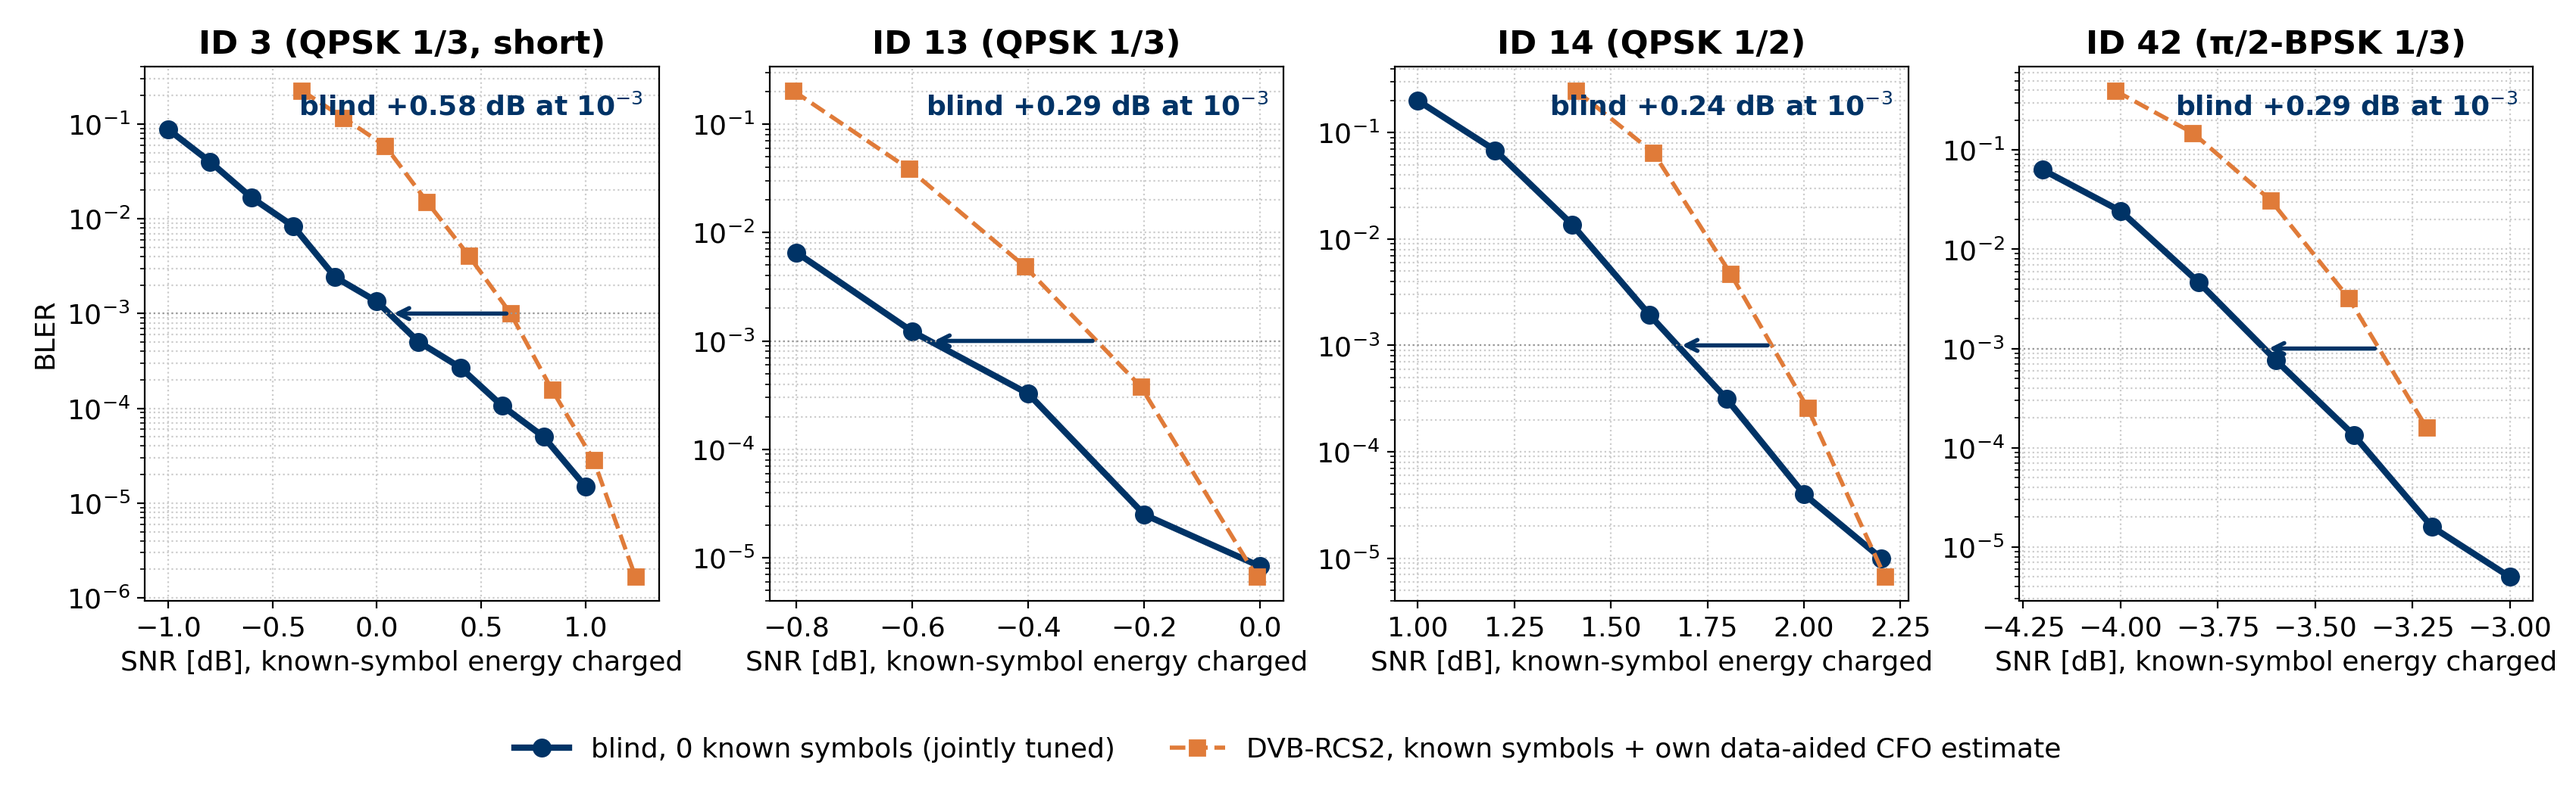
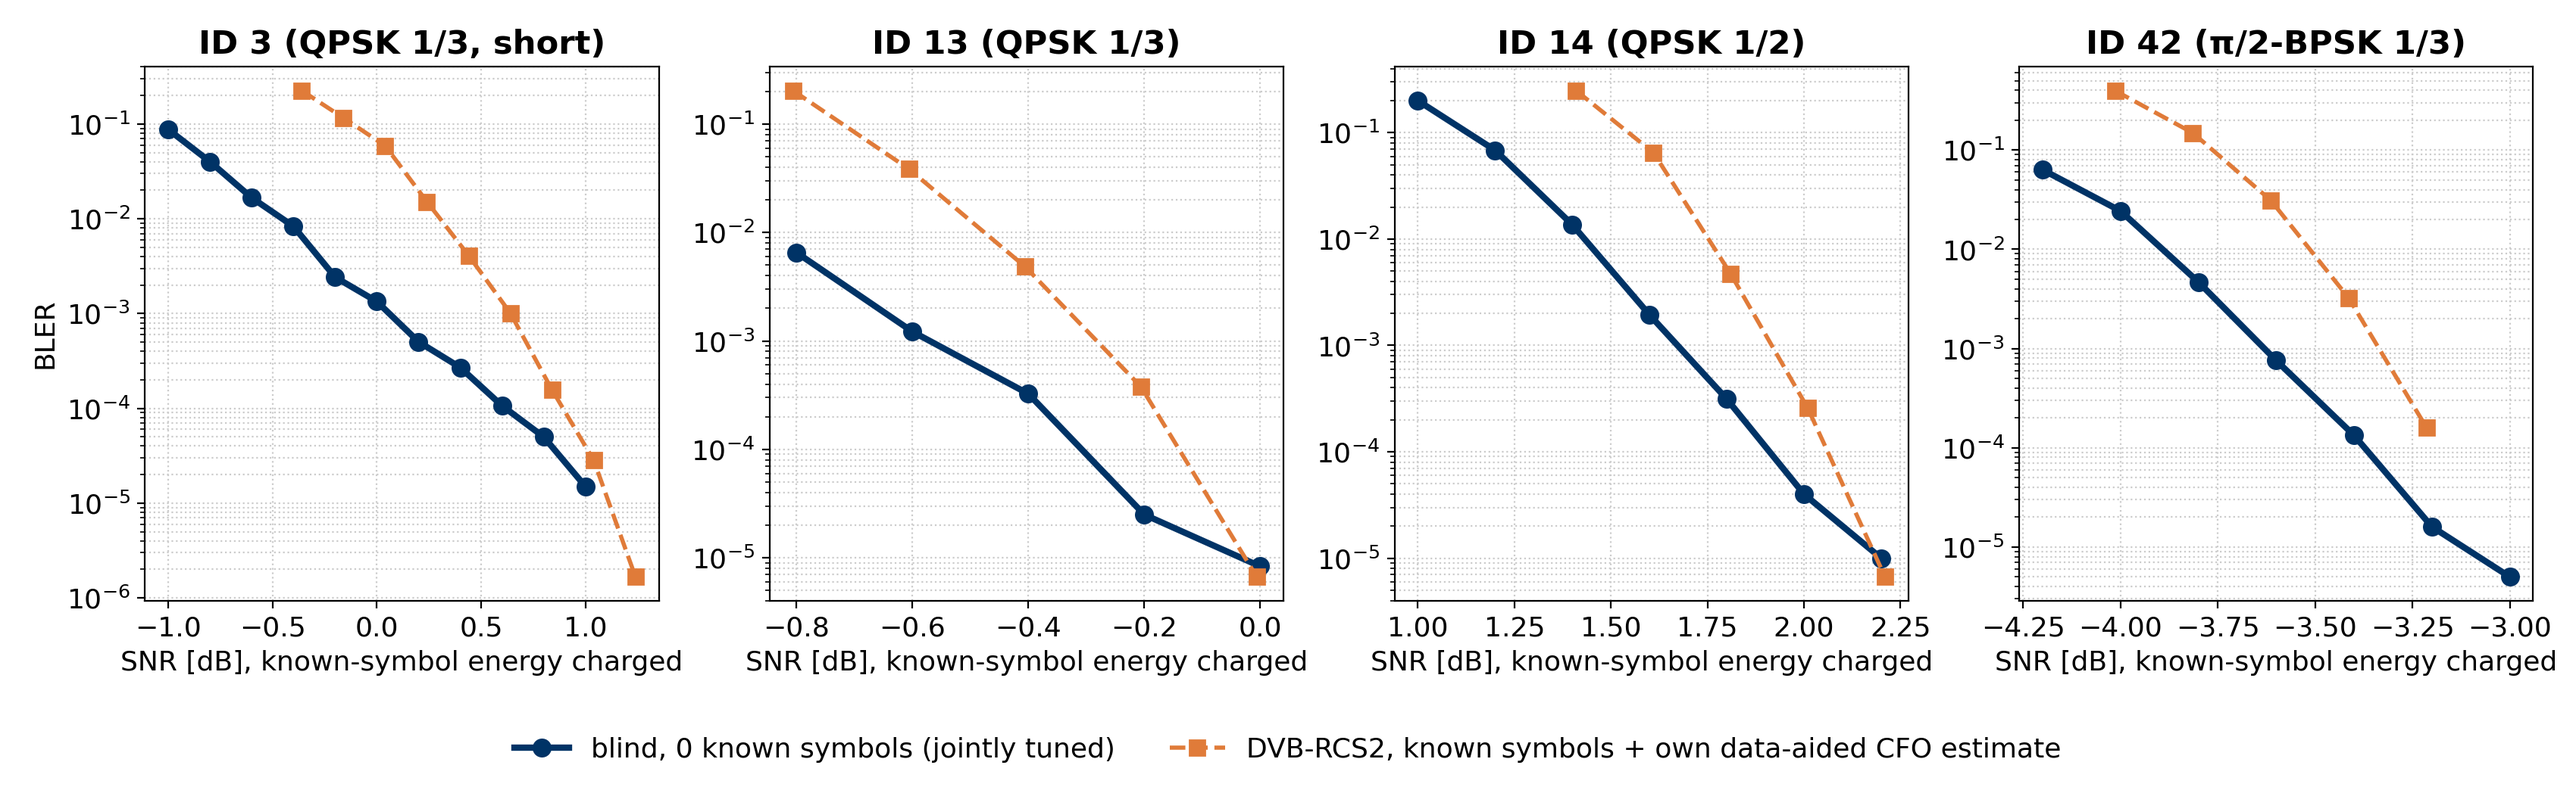
Slides: drop the BLER 1e-3 line, arrows, gap labels and 1e-3 markers from the plots; README 6.2 turbo vs polar code-only comparison

diff --git a/BLIND_IMPLEMENTATION/presentation/fullsys/plot_fullsys.py b/BLIND_IMPLEMENTATION/presentation/fullsys/plot_fullsys.py
@@ -82,12 +82,6 @@ for a, fmt in zip(ax, DVB):
     d, ce, cp, cm, te, tp, tm = dvb_series(fmt)
     hb, = a.semilogy(*nz(te, tp), "-o", color=NAVY, lw=3, ms=8)
     hc, = a.semilogy(*nz(ce, cp), "--s", color=ORANGE, lw=2, ms=7)
-    xb, xc = cross(te, tp), cross(ce, cp)
-    if xb is not None and xc is not None:
-        a.axhline(1e-3, color="#999999", lw=0.8, ls=":")
-        a.annotate("", xy=(xb, 1e-3), xytext=(xc, 1e-3), arrowprops=dict(arrowstyle="->", color=NAVY, lw=2))
-        a.text(0.97, 0.95, f"blind {xc - xb:+.2f} dB at 10$^{{-3}}$", transform=a.transAxes, ha="right", va="top", fontsize=13,
-               color=NAVY, fontweight="bold")
     a.set_title(f"{d['name']} ({d['desc'].replace('pi/2', 'π/2')})", fontweight="bold")
     style(a, XL, "BLER" if a is ax[0] else None)
 legend_below(f, [hb, hc], ["blind, 0 known symbols (jointly tuned)", "DVB-RCS2, known symbols + own data-aided CFO estimate"], 2)
@@ -101,13 +95,10 @@ for a, fmt in zip(ax, DVB):
     h0, = a.plot(bf["es"], bm_, "--o", color=LIGHT, lw=2, ms=6)
     hb, = a.plot(te, np.array(tm) / 1e6, "-o", color=NAVY, lw=3, ms=8)
     hc, = a.plot(ce, np.array(cm) / 1e6, "--s", color=ORANGE, lw=2, ms=7)
-    xb, xc = cross(te, tp), cross(ce, cp)
-    ho, = a.plot([xb, xc], [np.interp(xb, te, tm) / 1e6, np.interp(xc, ce, cm) / 1e6], "D", ms=13, mfc="none", mec="#c8423b", mew=2.5, ls="none")
     mticks(a, list(np.array(tm) / 1e6) + list(np.array(cm) / 1e6) + list(bm_))
     a.set_title(f"{d['name']} ({d['desc'].replace('pi/2', 'π/2')})", fontweight="bold")
     style(a, XL, "mean MACs per core [M] (32 cores)" if a is ax[0] else None)
-legend_below(f, [hb, h0, hc, ho], ["blind (jointly tuned)", "blind before joint tuning", "DVB-RCS2 (synchroniser + turbo decoder)",
-                                    "at BLER 10$^{-3}$"], 4)
+legend_below(f, [hb, h0, hc], ["blind (jointly tuned)", "blind before joint tuning", "DVB-RCS2 (synchroniser + turbo decoder)"], 3)
 f.tight_layout(rect=(0, 0.1, 1, 1)); f.savefig(os.path.join(HERE, "fs_dvb_macs.png"), dpi=200); plt.close(f)
 
 # 3) VDE-SAT: BLER and MACs vs Eb/N0
@@ -119,18 +110,14 @@ f, ax = plt.subplots(1, 2, figsize=(14, 5.4))
 hb, = ax[0].semilogy(*nz(fe, fp), "-o", color=NAVY, lw=3, ms=8)
 hc, = ax[0].semilogy(*nz(ce, cp), "--P", color=BROWN, lw=2, ms=8)
 xb, xc = cross(fe, fp), cross(ce, cp)
-ax[0].axhline(1e-3, color="#999999", lw=0.8, ls=":")
-ax[0].annotate("", xy=(xb, 1e-3), xytext=(xc, 1e-3), arrowprops=dict(arrowstyle="->", color=NAVY, lw=2.5))
-ax[0].text(0.97, 0.95, f"blind {xc - xb:+.2f} dB at 10$^{{-3}}$", transform=ax[0].transAxes, ha="right", va="top", fontsize=14, color=NAVY, fontweight="bold")
 ax[0].set_title("BLER", fontweight="bold"); style(ax[0], XL, "BLER")
 h0, = ax[1].plot(be, np.array(bm) / 1e6, "--o", color=LIGHT, lw=2, ms=6)
 ax[1].plot(fe, np.array(fm) / 1e6, "-o", color=NAVY, lw=3, ms=8)
 ax[1].plot(ce, np.array(cm) / 1e6, "--P", color=BROWN, lw=2, ms=8)
-ho, = ax[1].plot([xb, xc], [np.interp(xb, fe, fm) / 1e6, np.interp(xc, ce, cm) / 1e6], "D", ms=13, mfc="none", mec="#c8423b", mew=2.5, ls="none")
 mticks(ax[1], list(np.array(bm) / 1e6) + list(np.array(fm) / 1e6) + list(np.array(cm) / 1e6))
 ax[1].set_title("mean MACs per core [M] (32 cores)", fontweight="bold"); style(ax[1], XL)
-legend_below(f, [hb, h0, hc, ho], ["blind (jointly tuned)", "blind before joint tuning",
-                                   f"VDE-SAT ({V['known']} known: syncwords + pilots)", "at BLER 10$^{-3}$"], 4)
+legend_below(f, [hb, h0, hc], ["blind (jointly tuned)", "blind before joint tuning",
+                               f"VDE-SAT ({V['known']} known: syncwords + pilots)"], 3)
 f.tight_layout(rect=(0, 0.1, 1, 1)); f.savefig(os.path.join(HERE, "fs_vde.png"), dpi=200); plt.close(f)
 
 # 4) VDE-SAT, final blind with a MAC cap

diff --git a/BLIND_IMPLEMENTATION/presentation/fullsys/plot_genie.py b/BLIND_IMPLEMENTATION/presentation/fullsys/plot_genie.py
@@ -68,7 +68,6 @@ for a, (key, name, tu, po, col) in zip(ax, SYS):
                                ("real", "-s" if key != "vde" else "-P", col, 2.5, col), ("blind", "-o", NAVY, 3, NAVY)):
         x = [p["es"] for p in s[k] if p["err"] > 0]; y = [p["err"] / p["n"] for p in s[k] if p["err"] > 0]
         a.semilogy(x, y, sty, color=c, lw=lw, ms=7, mfc=mfc, mew=1.8)
-    a.axhline(1e-3, color="#999999", lw=0.8, ls=":")
     xt, xp, xr, xb = (cross(s[k]) for k in ("turbo_genie", "polar_genie", "real", "blind"))
     s["x1e-3"] = dict(turbo_genie=xt, polar_genie=xp, real=xr, blind=xb)
     a.text(0.5, 1.015, f"perfect sync: turbo ahead {xp - xt:.2f} dB\nreal systems: blind ahead {xr - xb:.2f} dB",

diff --git a/fullsys/README.md b/fullsys/README.md
@@ -499,6 +499,32 @@ generated by `py BLIND_IMPLEMENTATION/testing/plot_fs_tuned.py` then `py BLIND_I
 | ID 14 | [fs_tuned_id14s.png](../BLIND_IMPLEMENTATION/testing/results/plots/DVB-RCS2/overview/fs_tuned_id14s.png) |
 | VDE 32 | [fs_vde32_final.png](../BLIND_IMPLEMENTATION/testing/results/plots/VDE-SAT/overview/fs_vde32_final.png) |
 
+### 6.2 Code only: turbo vs polar with perfect sync (2026-11-18)
+
+How much of the result is the code itself? Both codes with perfect sync (true CFO, phase and N0, no known symbols),
+same payload and data symbols, BLER 1e-3 points in Es/N0 per data symbol (dB):
+
+| System | Turbo, perfect sync | Polar CA-SCL-8, perfect sync | Turbo ahead by | Real system (own DA sync, known symbols charged) | Blind (real) | Blind ahead by |
+|---|---|---|---|---|---|---|
+| ID 3 | -0.21 | -0.09 | 0.12 | +0.64 | +0.06 | 0.58 |
+| ID 13 | -0.77 | -0.42 | 0.36 | -0.28 | -0.57 | 0.29 |
+| ID 14 | 1.50 | 1.77 | 0.27 | 1.92 | 1.67 | 0.24 |
+| ID 42 | -3.78 | -3.41 | 0.37 | -3.34 | -3.63 | 0.29 |
+| VDE 32 | -4.78 | -4.63 | 0.15 | -3.63 | -4.80 | 1.17 |
+
+- With perfect sync the deployed turbo codes beat our rate-matched polar code (list 8) by 0.12-0.37 dB, so the code
+  choice works against blind. Blind still wins because the real systems spend 7-23 % of their energy on known symbols
+  (0.32-1.12 dB) and lose 0.03-0.14 dB to their own sync.
+- Blind beats its own perfect-sync list-8 curve on IDs 13, 14, 42 and VDE-SAT (by 0.09-0.22 dB at 1e-3): it decodes
+  several neighbouring (CFO, phase) hypotheses (DVB-RCS2: one joint list of 16 paths), which acts like a larger list.
+  Perfect-sync list 16 / 32 runs (ID 13: -0.56 / -0.66 dB; ID 14: 1.65 / 1.55; ID 42: list 16 -3.59, list 32 -3.69;
+  ID 3: -0.28 / -0.38) put the list-32 polar code within 0.05-0.12 dB of turbo (ID 3: 0.17 dB better).
+- Sources: turbo `rcs2_fs-{q3ti, rcs2v13, rcs2v14, q42ti}`, `vde_fs-{v32a, v32lo}`; polar
+  `polar_genie_fs-{q3pg8, pgga-13, pgga-14s, q42pg8}` (GA design) and `polar_genie_fs-pgv2a/b` (VDE, PW design, run
+  2026-11-18, jobs `fs-pgv2a/b`); real curves as in 6 and 6.1. Figure and snapshot:
+  [fs_genie.png](../BLIND_IMPLEMENTATION/presentation/fullsys/fs_genie.png),
+  `BLIND_IMPLEMENTATION/presentation/fullsys/data/genie_fullsys.json` (`plot_genie.py`).
+
 ## 7. Tuning methodology (full record: [tuning_fullsys.md](../BLIND_IMPLEMENTATION/testing/results/tuning_fullsys.md))
 
 **Seed ranges.** Every threshold was chosen on data kept apart from the reported curves:
@@ -638,8 +664,8 @@ Plot folder `BLIND_IMPLEMENTATION/testing/results/plots/` ([README](../BLIND_IMP
 **Open checks.**
 - **AFF3CT bit-exact check**: `compare_aff3ct.py` is written, but no test vectors are present locally. Status
   (unverified). The statistical agreement with AFF3CT's curve (~0.03-0.05 dB) is measured.
-- **List-32 reference**: genie-sync CA-SCL-32 GA runs (`polar_genie_fs-pg32-{3,13,14s,42b}`, finished per `.prog`)
-  are not yet analysed or plotted here (unverified).
+- **List-32 reference**: genie-sync CA-SCL-32 GA runs (`polar_genie_fs-pg32-{3,13,14s,42b}`) are now used in 6.2
+  (code-only comparison).
 
 **Next steps.**
 - **VDE batch null + final 16**: finish the -4.2 / -3.8 dB fresh check, then adopt if it stays identical.

diff --git a/BLIND_IMPLEMENTATION/NEWS.md b/BLIND_IMPLEMENTATION/NEWS.md
@@ -4,6 +4,16 @@ Newest first. One item per research result. Details in the linked files; sources
 
 ---
 
+## 2026-11-18 02:20 (full system) — The turbo code is the stronger code, blind wins anyway
+- With perfect sync (code only), the deployed turbo codes beat our rate-matched polar code (CA-SCL-8) at BLER 1e-3 by
+  0.12 / 0.36 / 0.27 / 0.37 dB (DVB-RCS2 ID 3 / 13 / 14 / 42) and 0.15 dB (VDE-SAT; new runs fs-pgv2a/b, 1.2 M packets).
+- So none of blind's lead comes from the code: the lead (+0.24 ... +0.58 dB DVB-RCS2, +1.17 dB VDE-SAT) is the
+  known-symbol energy the real systems spend (7-23 %, 0.32-1.12 dB) plus their own sync loss (0.03-0.14 dB), minus the
+  code penalty.
+- Blind even beats its own perfect-sync list-8 curve by 0.09-0.22 dB on IDs 13, 14, 42 and VDE-SAT: decoding several
+  neighbouring hypotheses acts like a bigger list. List 32 with perfect sync is within 0.05-0.12 dB of turbo.
+- Figure: presentation/fullsys/fs_genie.png (deck slide 28). Table: fullsys/README.md 6.2.
+
 ## 2026-11-18 01:05 (full system, VDE-SAT) — One phase guess: the VDE MAC floor drops from 0.31 to 0.21 M per core
 - The floor (~0.31 M per core at every SNR above -5 dB) was 58 % CFO-grid work: 513 frequency x phase hypotheses per
   packet, each partly decoded. For BPSK the squared signal already fixes the phase mod pi, so the second phase guess per
